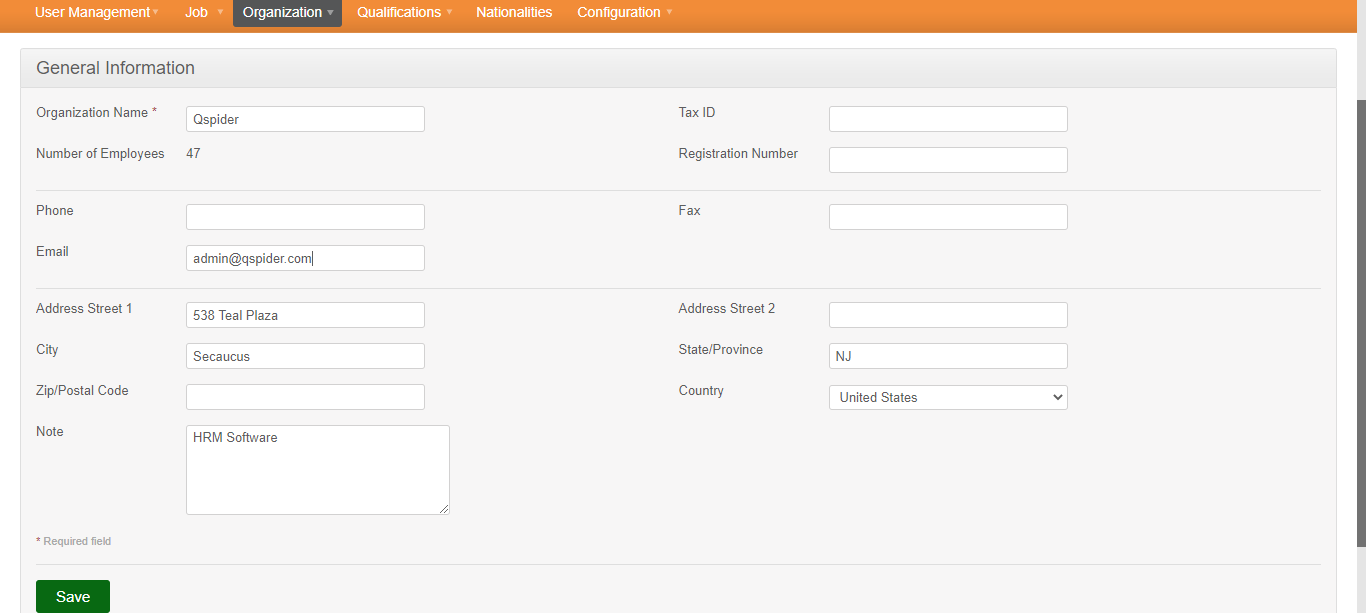
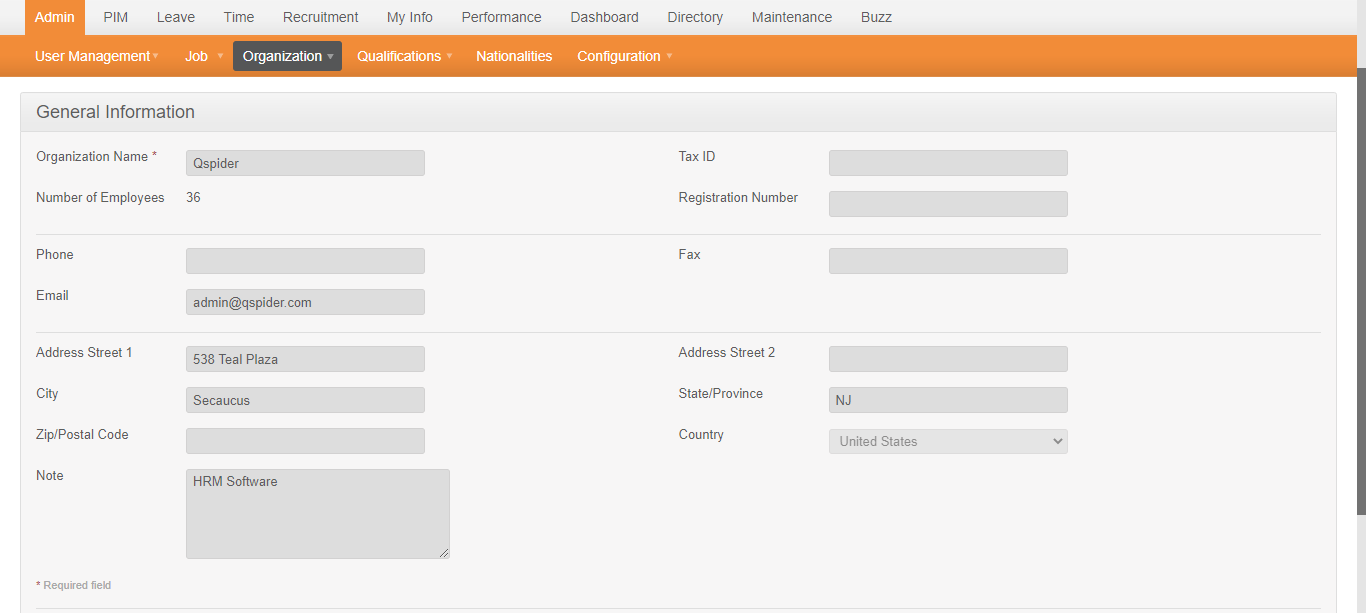
updated

diff --git a/mavenOrangehrm/src/test/java/com/orangehrm/testscript/demo.java b/mavenOrangehrm/src/test/java/com/orangehrm/testscript/demo.java
@@ -18,7 +18,7 @@ import com.orangehrm.objectrepository.homePage;
 @Listeners(com.orangehrm.generic.ListenerImplementation.class)
 public class demo extends BaseClass {
 	@Test
-	public void loginToapp() throws EncryptedDocumentException, IOException, InvalidFormatException {
+	public void loginToapp() throws EncryptedDocumentException, IOException, InvalidFormatException, InterruptedException {
 		Reporter.log("Edit Organization",true);
 		homePage h=new homePage(driver);
 		adminPage p=new adminPage(driver);
@@ -43,9 +43,11 @@ public class demo extends BaseClass {
 		p.getEmailTb().clear();
 		//send input to email text box
 		p.getEmailTb().sendKeys(email);
+		p.getSavebtn().click();
+		
 		//reading the data which is present in organization text box with our excel data
-		String Actualorg=p.getOrganizationNametbx().getAttribute("value");
-		Assert.assertEquals(Actualorg, "sathya");
+		//String Actualorg=p.getOrganizationNametbx().getAttribute("value");
+		//Assert.assertEquals(Actualorg, orgname);
 	}
 
 }
